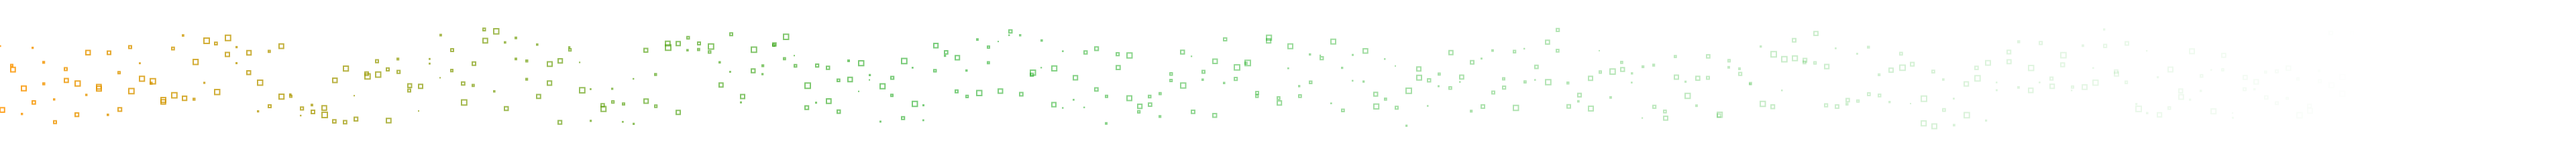
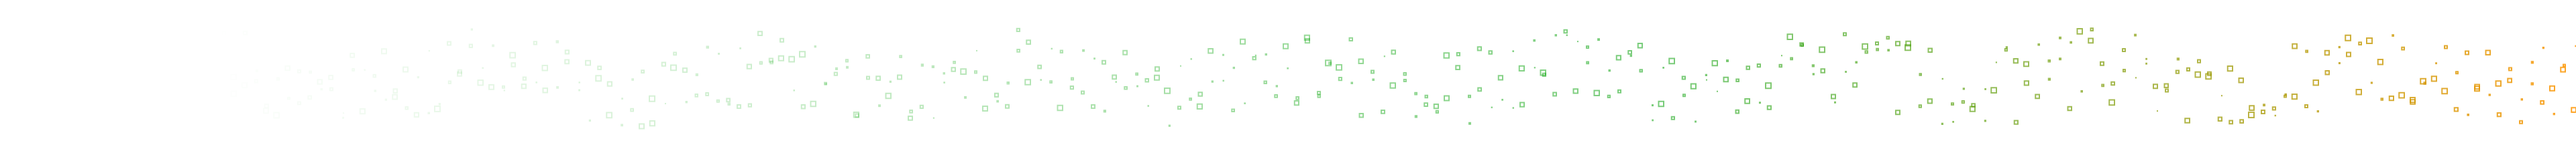
fix image flip

diff --git a/assets/css/main.css b/assets/css/main.css
@@ -24,10 +24,4 @@
   background-image: url("../images/footer-bg.png");
   background-repeat: no-repeat;
   background-size: 1920px 116px;
-  -moz-transform: scaleX(-1);
-  -o-transform: scaleX(-1);
-  -webkit-transform: scaleX(-1);
-  transform: scaleX(-1);
-  filter: FlipH;
-  -ms-filter: "FlipH"; 
 }

diff --git a/_includes/footer.html b/_includes/footer.html
@@ -33,5 +33,4 @@
     </div>
 
   </div>
-
 </footer>
